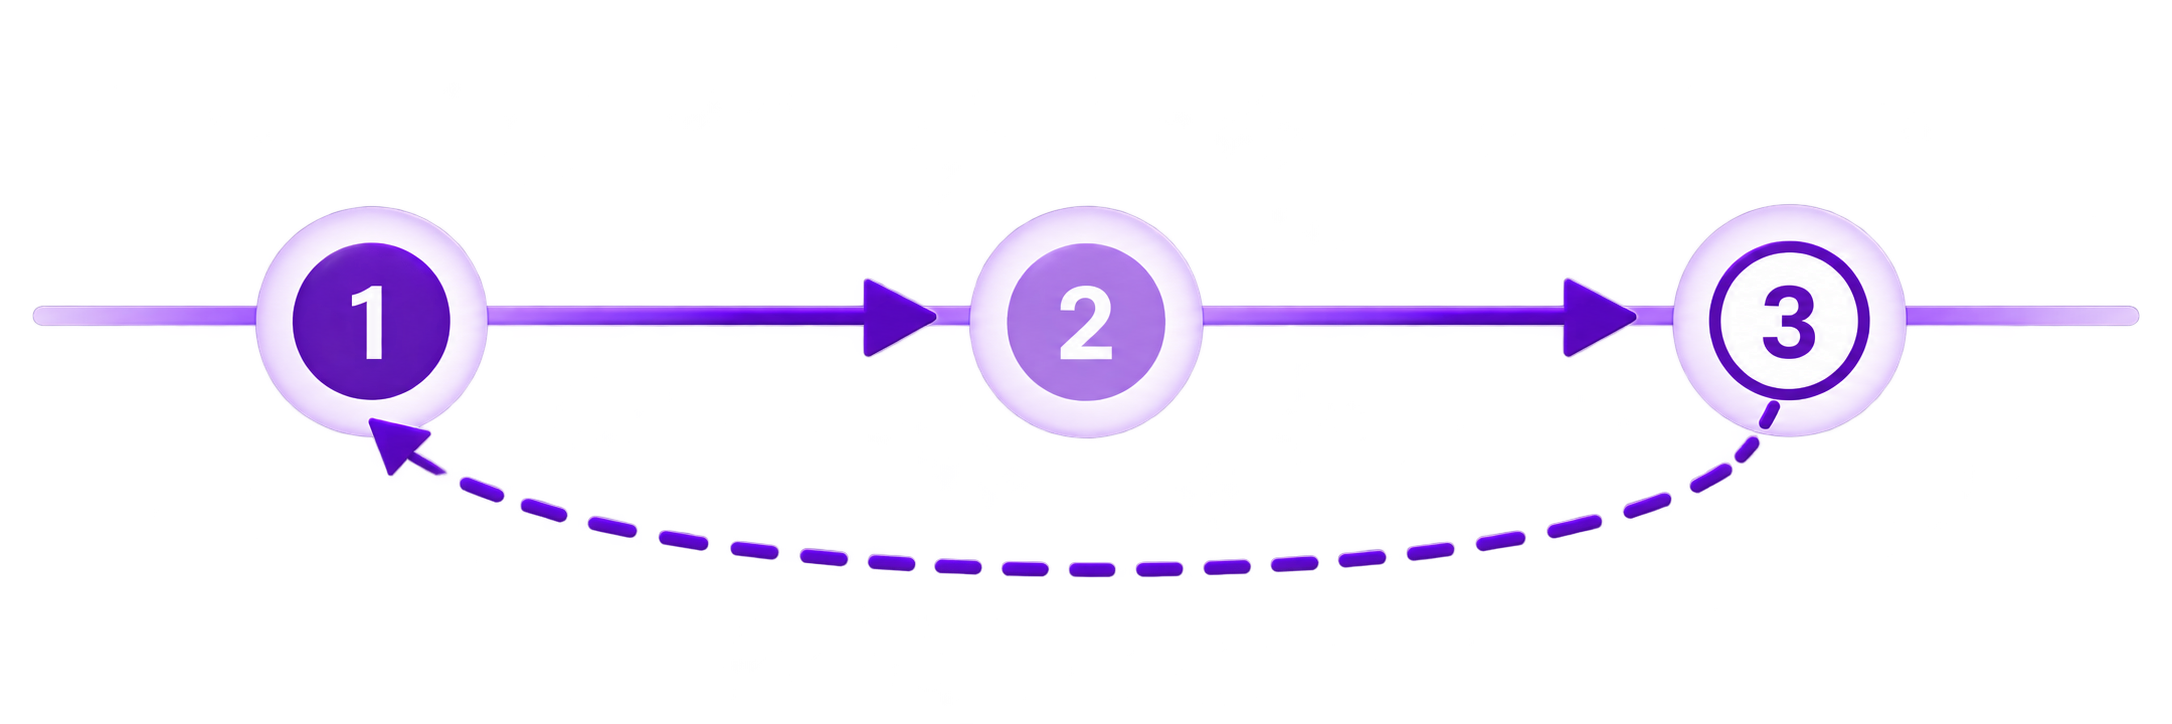
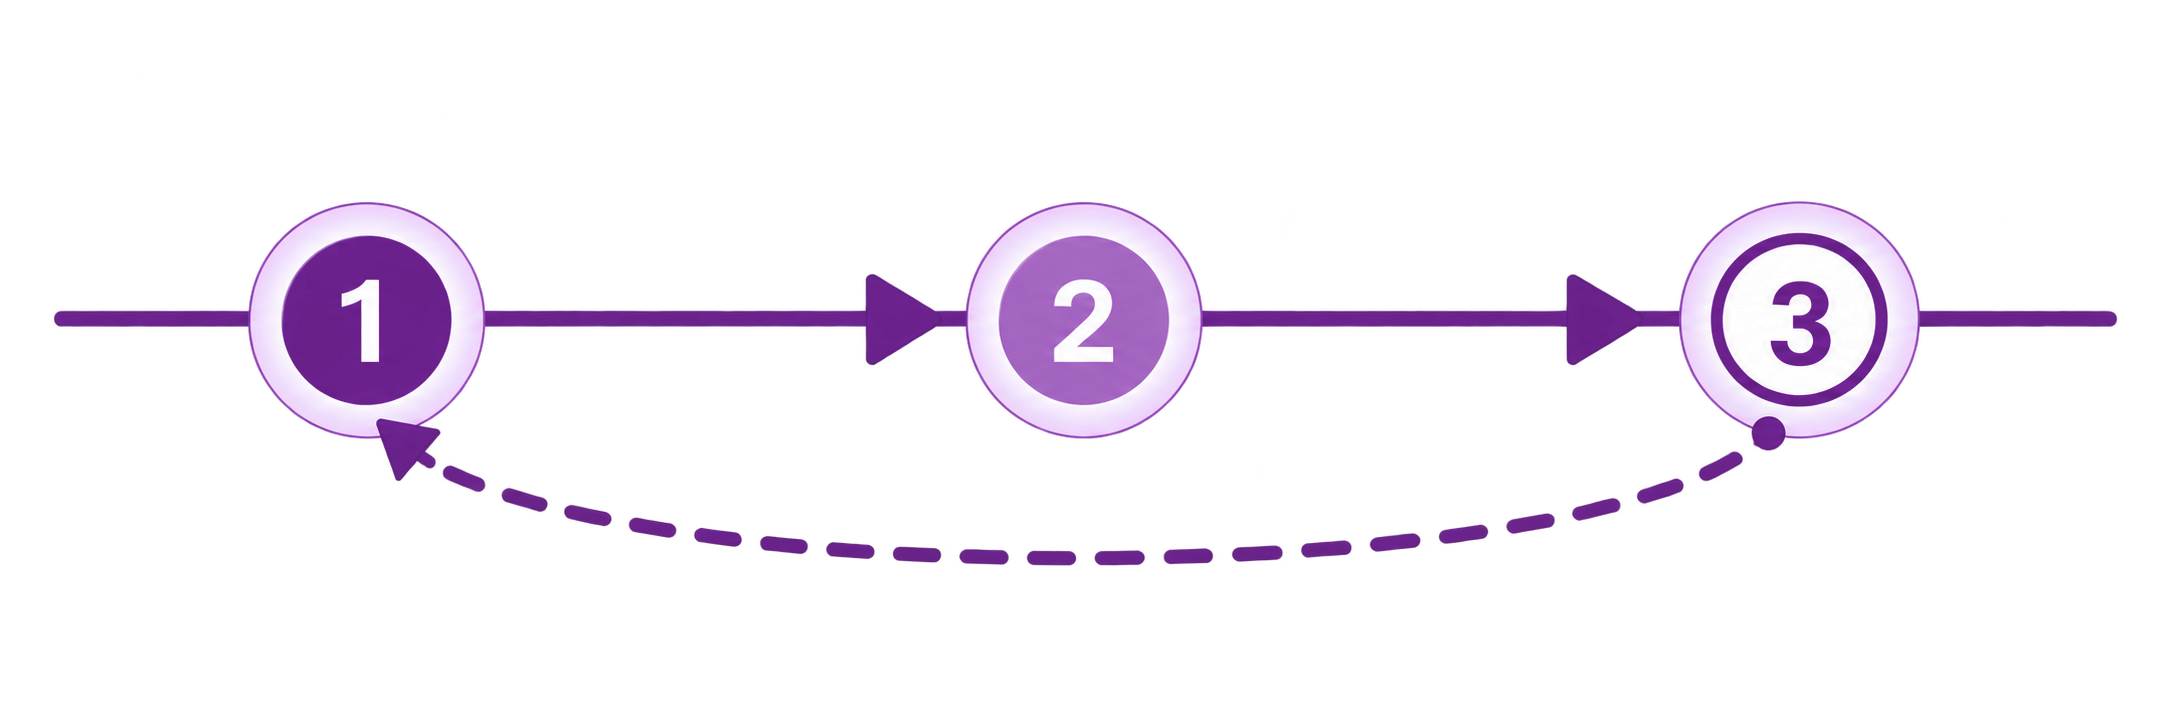
Updated

Changed region(s): [[0.0, 0.2735, 0.9871, 0.8204], [0.2159, 0.6685, 0.2468, 0.6989]]

diff --git a/src/app/safety-monitoring/page.tsx b/src/app/safety-monitoring/page.tsx
@@ -80,17 +80,17 @@ export default function SafetyPage() {
             Other conditions that need caution are covered under <a href="#warnings">warnings and precautions</a>.
           </p>
           <div className="alert">
-              <h3>Contraindicated</h3>
-              <p>
-                Oral olanzapine is contraindicated in patients with:
-                <Cite n={1} section="4.3" />
-              </p>
-              <ul>
-                <li>Hypersensitivity to olanzapine or to any of the excipients</li>
-                <li>Known risk of narrow-angle glaucoma</li>
-              </ul>
-              <p>Excipients include lactose monohydrate. See the prescribing information for the full list.</p>
-            </div>
+            <h3>Contraindicated</h3>
+            <p>
+              Oral olanzapine is contraindicated in patients with:
+              <Cite n={1} section="4.3" />
+            </p>
+            <ul>
+              <li>Hypersensitivity to olanzapine or to any of the excipients</li>
+              <li>Known risk of narrow-angle glaucoma</li>
+            </ul>
+            <p>Excipients include lactose monohydrate. See the prescribing information for the full list.</p>
+          </div>
         </section>
 
         <section className="s" id="warnings">
@@ -395,7 +395,7 @@ export default function SafetyPage() {
             </div>
           </div>
           <p className="source-line" style={{ marginTop: 12 }}>
-            Figure 2. Weight-gain thresholds across short-term and long-term exposures and bipolar disorder clinical trials.
+            Weight-gain thresholds across short-term and long-term exposures and bipolar disorder clinical trials.
             <Cite n={1} section="4.8" />
           </p>
         </section>
@@ -475,18 +475,18 @@ export default function SafetyPage() {
             Pregnancy and breastfeeding
           </h2>
           <div>
-              <p>
-                Because human experience is limited, olanzapine should be used in pregnancy only if the potential
-                benefit justifies the potential risk to the foetus.
-                <Cite n={1} section="4.6" />
-              </p>
-              <p>
-                Newborns exposed to antipsychotics, including olanzapine, during the third trimester are at risk of
-                adverse reactions including extrapyramidal and/or withdrawal symptoms, and should be monitored
-                carefully.
-              </p>
-              <p>Olanzapine is excreted in breast milk. Patients should be advised not to breastfeed an infant if they are taking olanzapine.</p>
-            </div>
+            <p>
+              Because human experience is limited, olanzapine should be used in pregnancy only if the potential
+              benefit justifies the potential risk to the foetus.
+              <Cite n={1} section="4.6" />
+            </p>
+            <p>
+              Newborns exposed to antipsychotics, including olanzapine, during the third trimester are at risk of
+              adverse reactions including extrapyramidal and/or withdrawal symptoms, and should be monitored
+              carefully.
+            </p>
+            <p>Olanzapine is excreted in breast milk. Patients should be advised not to breastfeed an infant if they are taking olanzapine.</p>
+          </div>
         </section>
 
         <section className="s" id="adverse-reactions">

diff --git a/src/lib/references.ts b/src/lib/references.ts
@@ -84,7 +84,7 @@ export const REFERENCES: Reference[] = [
     category: "study",
     kind: "Review article",
     topics: ["Disease background"],
-    usedFor: "Cited for the dopamine, glutamate and serotonin hypotheses (schizophrenia, Figure 2).",
+    usedFor: "Cited for the dopamine, glutamate and serotonin hypotheses (disease background, Figure 1).",
     links: [{ label: "doi:10.1017/S1092852918001013", href: "https://doi.org/10.1017/S1092852918001013" }],
   },
   {
@@ -147,7 +147,7 @@ export const REFERENCES: Reference[] = [
     category: "study",
     kind: "Randomised trial",
     topics: ["Clinical efficacy"],
-    usedFor: "Cited for the published schizophrenia trial (clinical evidence, Figure 2).",
+    usedFor: "Cited for the published schizophrenia trial (clinical evidence, North American acute trial).",
     links: [{ label: "Publisher page", href: "https://www.nature.com/articles/1380403" }],
   },
   {
@@ -159,7 +159,7 @@ export const REFERENCES: Reference[] = [
     category: "study",
     kind: "Randomised trial",
     topics: ["Clinical efficacy"],
-    usedFor: "Cited for the published acute mania trial (clinical evidence, Figure 3).",
+    usedFor: "Cited for the published acute mania trial (clinical evidence, Tohen et al. 1999).",
     links: [{ label: "doi:10.1176/ajp.156.5.702", href: "https://doi.org/10.1176/ajp.156.5.702" }],
   },
   {
@@ -171,7 +171,7 @@ export const REFERENCES: Reference[] = [
     category: "study",
     kind: "PET imaging study",
     topics: ["Pharmacology"],
-    usedFor: "Cited for receptor occupancy at clinical doses (mechanism of action, Figure 2).",
+    usedFor: "Cited for receptor occupancy at clinical doses (mechanism of action, receptor occupancy).",
     links: [{ label: "doi:10.1176/ajp.155.7.921", href: "https://doi.org/10.1176/ajp.155.7.921" }],
   },
   {

diff --git a/src/app/disease-background/page.tsx b/src/app/disease-background/page.tsx
@@ -274,7 +274,7 @@ export default function DiseaseBackgroundPage() {
                 </article>
               </div>
               <p className="source-line">
-                Figure 2. Phases of care as a clinical framework. Progression is not fixed, and individual patients may
+                Phases of care as a clinical framework. Progression is not fixed, and individual patients may
                 move between phases. Treatment needs can change over time; phases may recur.
               </p>
               <details>
